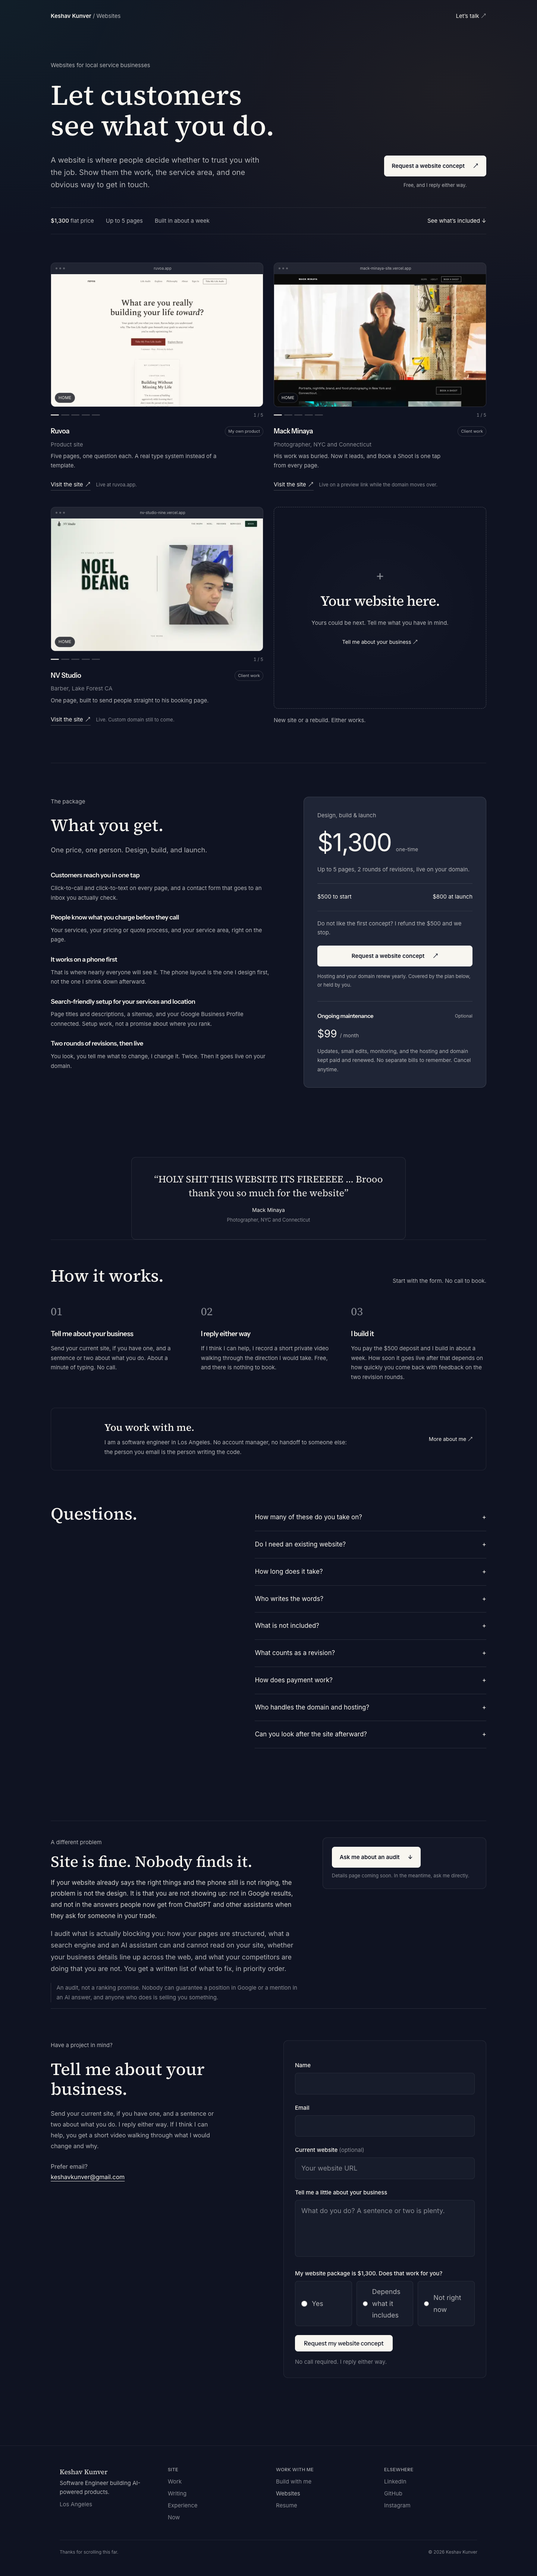
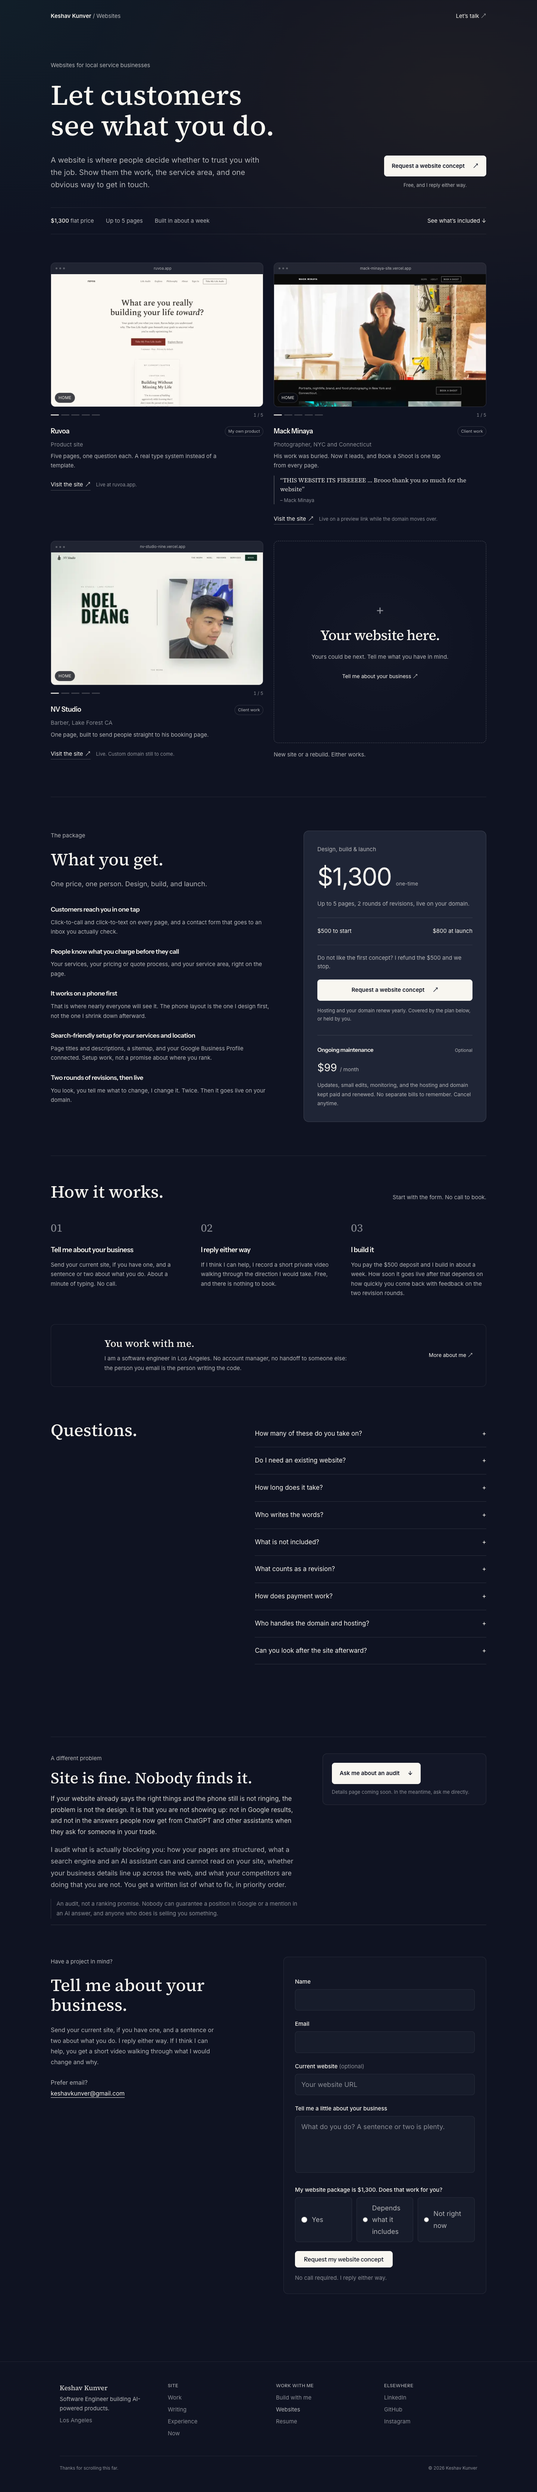
Move each client quote under the site it is about
A reaction is now an optional `quote` on the example entry rather than a
separate testimonials section, so it sits inside the card beneath the site
it refers to. Adding the next one is a one-line edit. Styled with a left
rule and the serif face so it reads as the client's voice, not more of the
page's own copy.

Mack's quote drops its opening expletive by starting two words later. The
remaining text is still verbatim and contiguous, because rewording a
testimonial is what the client-work house rule treats as a launch blocker,
not something a cleaner sentence is worth.

Uses an en dash for the attribution; em dashes stay banned in rendered copy.

diff --git a/src/config/websites.js b/src/config/websites.js
@@ -30,6 +30,10 @@ export const websiteExamples = [
     summary: 'His work was buried. Now it leads, and Book a Shoot is one tap from every page.',
     status: 'Live on a preview link while the domain moves over.',
     href: 'https://mack-minaya-site.vercel.app',
+    // Mack's own words from messages after the site went up, excerpted to
+    // contiguous fragments with an ellipsis marking the cut. Nothing reworded;
+    // only the opening expletive is dropped. Permission confirmed 2026-09-17.
+    quote: 'THIS WEBSITE ITS FIREEEEE \u2026 Brooo thank you so much for the website',
     shots: [
       { src: '/work/mack-minaya/home.webp', page: 'Home', alt: 'Mack Minaya homepage: a full-width studio portrait above a row of gallery tiles.' },
       { src: '/work/mack-minaya/work.webp', page: 'Work', alt: 'Work index page showing photography galleries by category.' },
@@ -138,23 +142,11 @@ export const websiteOffer = {
   ],
 };
 
-// Client reactions. VERBATIM WORDS ONLY, and only with permission recorded
-// (see client-work/AGENTS.md house rule: paraphrased or invented reviews are
-// an FTC problem and a launch blocker). While this is empty the section does
-// not render, so there is nothing to be wrong.
-//
-// Mack Minaya: his own words from messages after the site went up, excerpted
-// to contiguous fragments with an ellipsis marking the cut. Nothing reworded.
-// Keshav confirmed permission to quote publicly, 2026-09-17.
-export const testimonials = [
-  {
-    quote:
-      'HOLY SHIT THIS WEBSITE ITS FIREEEEE \u2026 Brooo thank you so much for the website',
-    name: 'Mack Minaya',
-    business: 'Photographer, NYC and Connecticut',
-    href: 'https://mack-minaya-site.vercel.app',
-  },
-];
+// Quotes live on the example entries above (`quote`), so a reaction sits
+// under the site it is about. VERBATIM WORDS ONLY, and only with permission
+// recorded: paraphrased or invented reviews are an FTC problem and a launch
+// blocker (client-work/AGENTS.md). Trimming to contiguous fragments is fine;
+// rewording is not.
 
 // The AEO audit: a second, smaller offer for businesses whose site is fine but
 // invisible. Set `href` to the real page when it exists; while it is null the

diff --git a/src/app/websites/websites.module.css b/src/app/websites/websites.module.css
@@ -1027,60 +1027,34 @@
 }
 
 /* Client reactions. Renders only when real, permitted quotes exist. */
-/* One quote reads as a feature, not a card: give it measure and scale rather
-   than stretching a short sentence across the full column. Two or more fall
-   back into a grid. */
-.quotes {
-  display: grid;
-  grid-template-columns: repeat(auto-fit, minmax(min(100%, 340px), 1fr));
-  gap: 28px;
-  margin-top: 96px;
+
+
+
+/* A client's reaction, sitting under the site it is about. Marked off by a
+   rule and set in the serif so it reads as someone else's voice, not more of
+   the page's own copy. */
+.exampleQuote {
+  margin: 0.9rem 0 0;
+  padding-left: 0.95rem;
+  border-left: 2px solid rgba(248, 246, 240, 0.22);
 }
 
-.quotes:has(> :only-child) {
-  grid-template-columns: minmax(0, 46rem);
-  justify-content: center;
-  text-align: center;
-}
-
-.quote {
+.exampleQuote blockquote {
   margin: 0;
-  padding: 24px;
-  border: 1px solid rgba(248, 246, 240, 0.1);
-  border-radius: 12px;
-  background: rgba(23, 28, 43, 0.4);
-}
-
-.quotes:has(> :only-child) .quote {
-  padding: 40px 32px;
-}
-
-.quote blockquote {
-  margin: 0;
-  color: #e6e5e1;
-  font-size: 1.0625rem;
-  line-height: 1.65;
-}
-
-.quotes:has(> :only-child) .quote blockquote {
   font-family: var(--font-source-serif), Georgia, serif;
-  font-size: clamp(1.25rem, 2.4vw, 1.6rem);
-  line-height: 1.45;
-  color: #f2f0eb;
+  font-size: 1rem;
+  line-height: 1.5;
+  color: #e6e5e1;
 }
 
-.quote blockquote::before { content: '\201C'; }
-.quote blockquote::after { content: '\201D'; }
+.exampleQuote blockquote::before { content: '\201C'; }
+.exampleQuote blockquote::after { content: '\201D'; }
 
-.quote figcaption {
-  margin-top: 0.9rem;
-  color: #f8f6f0;
-  font-size: 0.875rem;
-}
-
-.quote figcaption span {
-  display: block;
+.exampleQuote figcaption {
+  margin-top: 0.4rem;
   color: #898c94;
   font-size: 0.8125rem;
-  margin-top: 0.15rem;
 }
+
+/* En dash, not em: the house rule bans em dashes in rendered copy. */
+.exampleQuote figcaption::before { content: '\2013\00a0'; }

diff --git a/src/app/websites/page.jsx b/src/app/websites/page.jsx
@@ -3,7 +3,7 @@ import Image from 'next/image';
 import ConceptForm from '../../components/websites/ConceptForm';
 import SitePreview from '../../components/websites/SitePreview';
 import headshotImage from '../../assets/images/profile/headshot.png';
-import { websiteExamples, websiteOffer as offer, websiteCopy as copy, aeoOffer as aeo, testimonials } from '../../config/websites';
+import { websiteExamples, websiteOffer as offer, websiteCopy as copy, aeoOffer as aeo } from '../../config/websites';
 import styles from './websites.module.css';
 function Example({
   example
@@ -16,6 +16,10 @@ function Example({
     </div>
     <p className={styles.exampleLabel}>{example.label}</p>
     <p>{example.summary}</p>
+    {example.quote && <figure className={styles.exampleQuote}>
+      <blockquote>{example.quote}</blockquote>
+      <figcaption>{example.name}</figcaption>
+    </figure>}
     <div className={styles.exampleFoot}>
       <a className={styles.exampleLink} href={example.href} target="_blank" rel="noopener noreferrer">
         Visit the site <span aria-hidden="true">↗</span>
@@ -108,16 +112,6 @@ export default function WebsitesPage() {
             </div>
           </aside>
         </section>
-
-        {testimonials.length > 0 && <section className={styles.quotes} aria-label="What clients said">
-          {testimonials.map(t => <figure key={t.name} className={styles.quote}>
-            <blockquote>{t.quote}</blockquote>
-            <figcaption>
-              {t.name}
-              <span>{t.business}</span>
-            </figcaption>
-          </figure>)}
-        </section>}
 
         <section className={styles.process} aria-labelledby="process-title">
           <div className={styles.sectionIntro}>

diff --git a/docs/ai/CURRENT_PLAN.md b/docs/ai/CURRENT_PLAN.md
@@ -488,3 +488,37 @@ Still open: NV Studio testimonial (Noel's reaction not yet supplied, and that
 repo's testimonial-permission blocker is separate and still open); build the
 AEO page and set aeoOffer.href; swap both client hrefs to real domains when
 they land.
+
+
+## Round 12 (Claude, 2026-09-17): quotes attach to their site
+
+Keshav: put each testimonial directly under the site it is about, and drop the
+profanity.
+
+Structural change: the standalone `testimonials` export and the
+`.quotes` section are gone. A reaction is now an optional `quote` field on the
+example entry itself, rendered inside the card beneath the summary. Adding
+Noel's is a one-line edit to the nv-studio entry. Styled with a left rule and
+the serif face so it reads as someone else's voice rather than more page copy.
+
+Profanity: Keshav asked whether we could rephrase to "this website is fire ...
+bro thank you". Declined the rewording and offered excerpting instead, because
+client-work/AGENTS.md treats paraphrased-beyond-recognition reviews as an FTC
+problem and a launch blocker, and altered words inside quotation marks are
+exactly what that rule covers. Dropping the first two words achieves the same
+result with nothing reworded. Published quote:
+
+  "THIS WEBSITE ITS FIREEEEE ... Brooo thank you so much for the website"
+
+Every character is his. Starting mid-sentence is normal excerpting, so no
+leading ellipsis.
+
+One self-caught rule violation: my first version of the attribution used an em
+dash (CSS `content: '\2014'`), which the house rule bans in rendered copy.
+Attribution dashes are a conventional exception, but rather than silently
+introduce one I switched to an en dash (`\2013`). Verified 0 em dashes in both
+the built HTML and the built CSS.
+
+Lighthouse mobile unchanged: performance 92, accessibility 100 (contrast
+PASS), best practices 96, SEO 100. No overflow at 390, 820, or 1440. Build
+passes, lint 0 errors.
